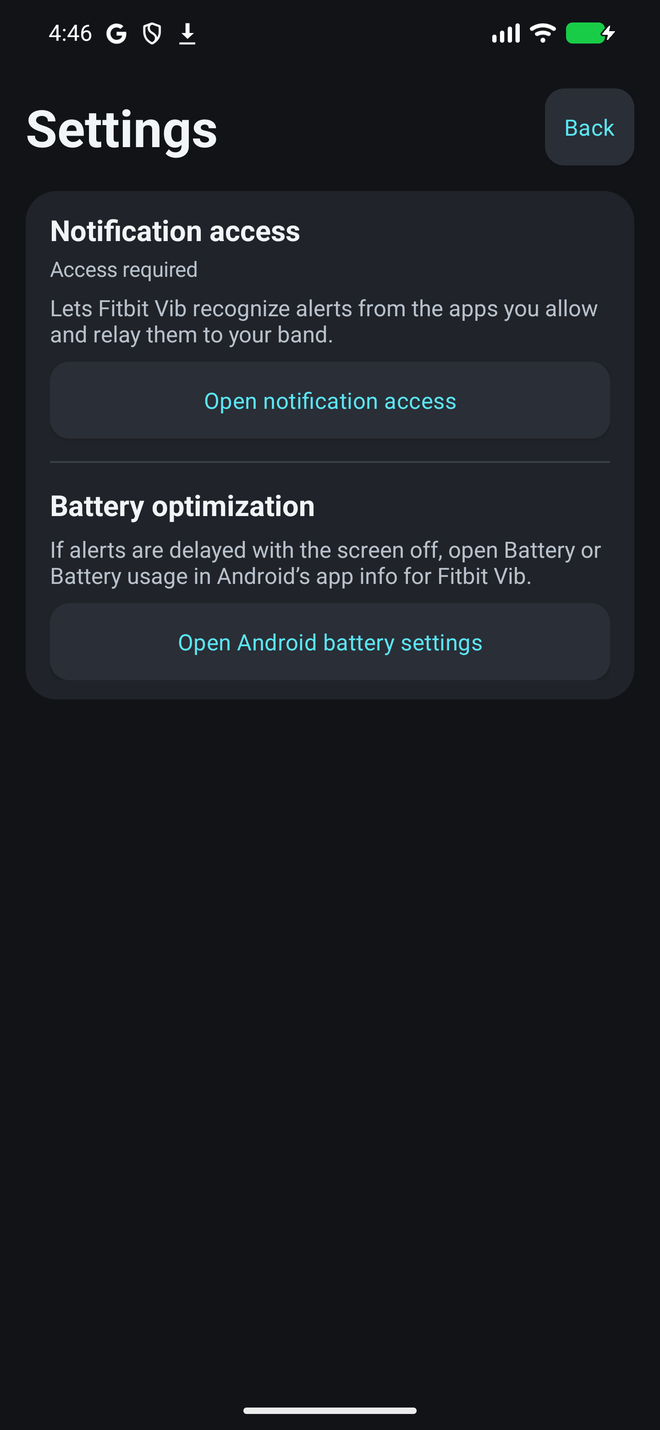
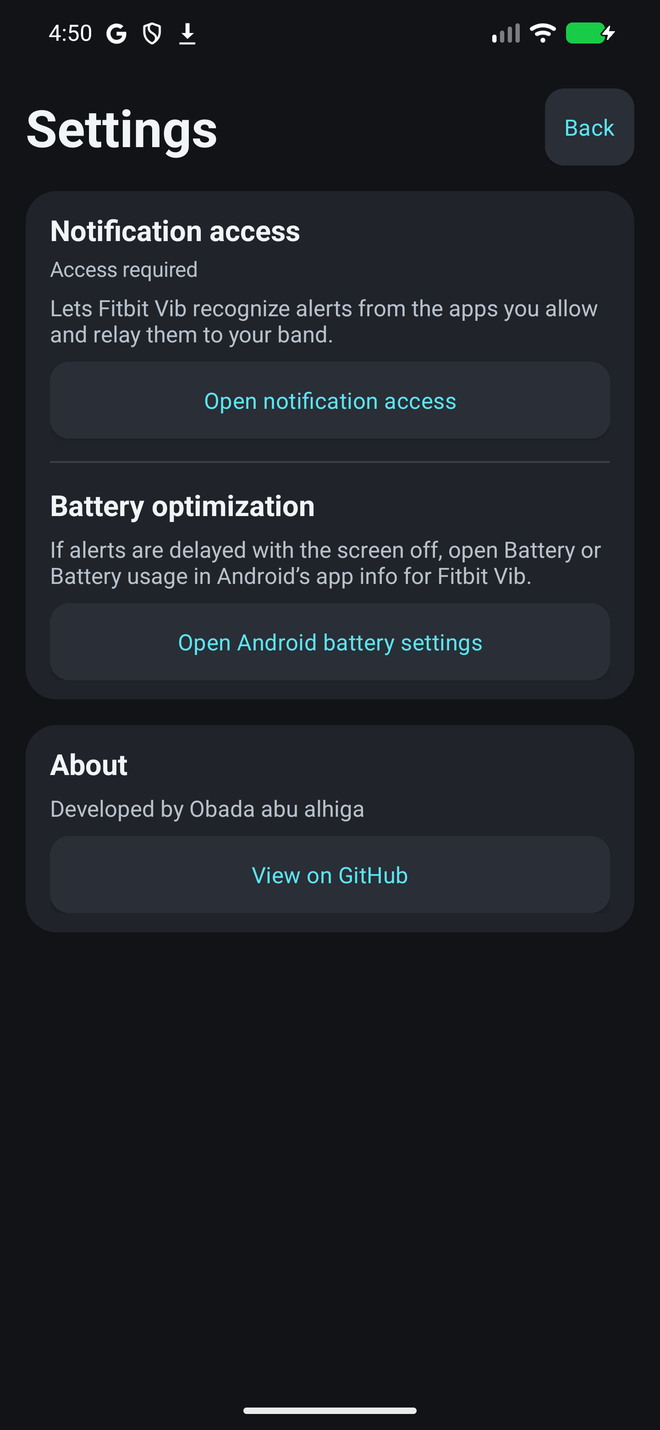
feat: add developer credit and project link to Settings

Changed region(s): [[0.0606, 0.5231, 0.9394, 0.6462], [0.0909, 0.0, 0.1515, 0.0308], [0.7576, 0.0, 0.7879, 0.0308]]

diff --git a/app/src/main/kotlin/dev/wristrelay/BackgroundSettings.kt b/app/src/main/kotlin/dev/wristrelay/BackgroundSettings.kt
@@ -82,11 +82,26 @@ class BackgroundSettingsActivity : Activity() {
         options = BackgroundOptions(this, ui)
         val card = ui.card().apply { addView(options.view, ui.stacked()) }
         panel.addView(card, ui.stacked(16))
+        val about = ui.card().apply {
+            addView(ui.label("About", 18, bold = true).apply { isAccessibilityHeading = true })
+            addView(ui.label("Developed by Obada abu alhiga", 14, ui.muted), ui.stacked(6))
+            addView(ui.action("View on GitHub") { openProjectPage() }, ui.stacked(8))
+        }
+        panel.addView(about, ui.stacked(16))
         setContentView(ui.screen(panel))
     }
 
     override fun onResume() {
         super.onResume()
         options.refresh()
+    }
+
+    private fun openProjectPage() {
+        val projectPage = Uri.parse("https://github.com/error0327/fitbit-vib")
+        try {
+            startActivity(Intent(Intent.ACTION_VIEW, projectPage))
+        } catch (_: ActivityNotFoundException) {
+            Toast.makeText(this, "No app can open the GitHub link.", Toast.LENGTH_SHORT).show()
+        }
     }
 }

diff --git a/README.md b/README.md
@@ -16,7 +16,7 @@ Fitbit Vib is an independent Android companion for the screenless Fitbit Air. Ch
   <tr>
     <td><img src="docs/images/allowlist.png" alt="Fitbit Vib with the main relay switch, test vibration button, and per-app allowlist" width="230"></td>
     <td><img src="docs/images/active-now.png" alt="Active now showing sample apps with current notifications and individual relay switches" width="230"></td>
-    <td><img src="docs/images/background-settings.png" alt="Fitbit Vib Settings with Notification access and Battery optimization" width="230"></td>
+    <td><img src="docs/images/background-settings.png" alt="Fitbit Vib Settings with notification access, battery optimization, and About" width="230"></td>
   </tr>
 </table>
 
